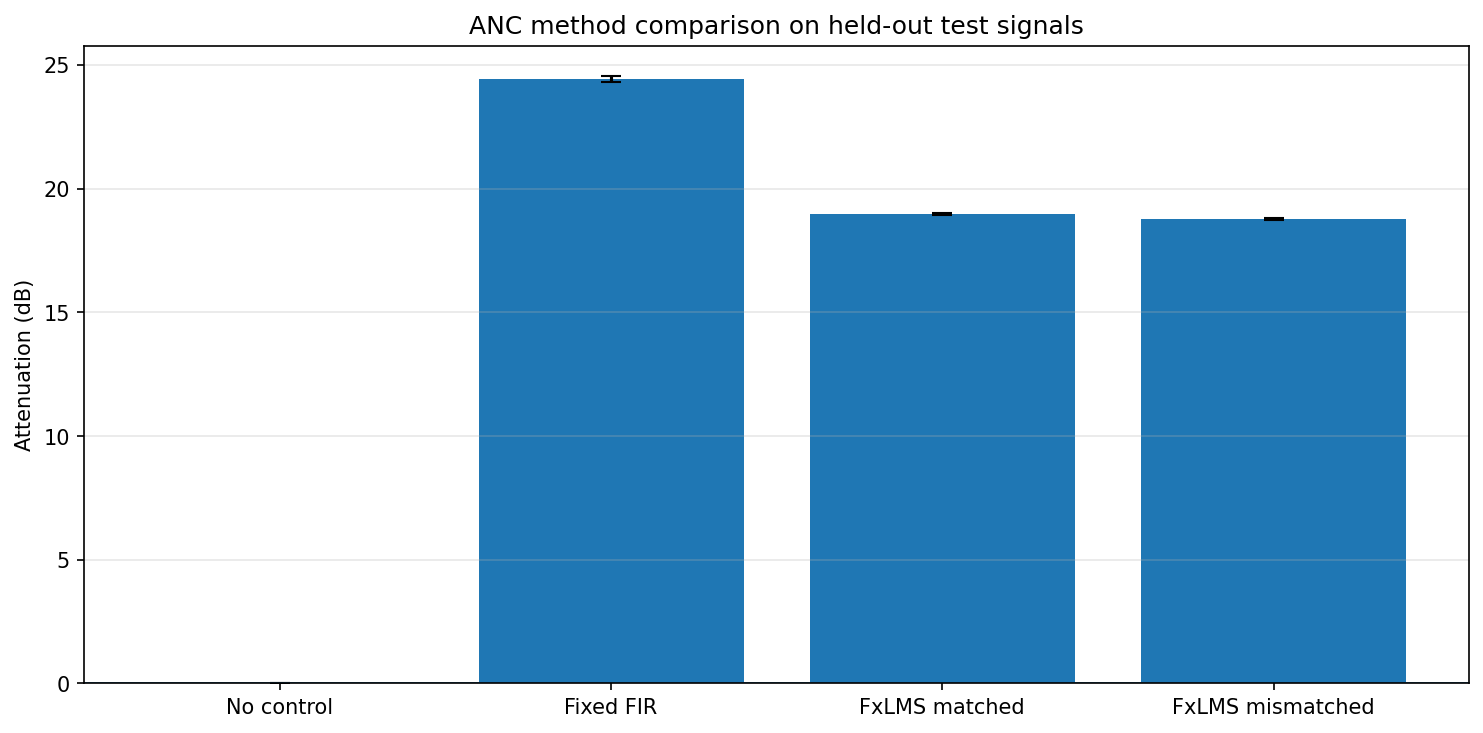
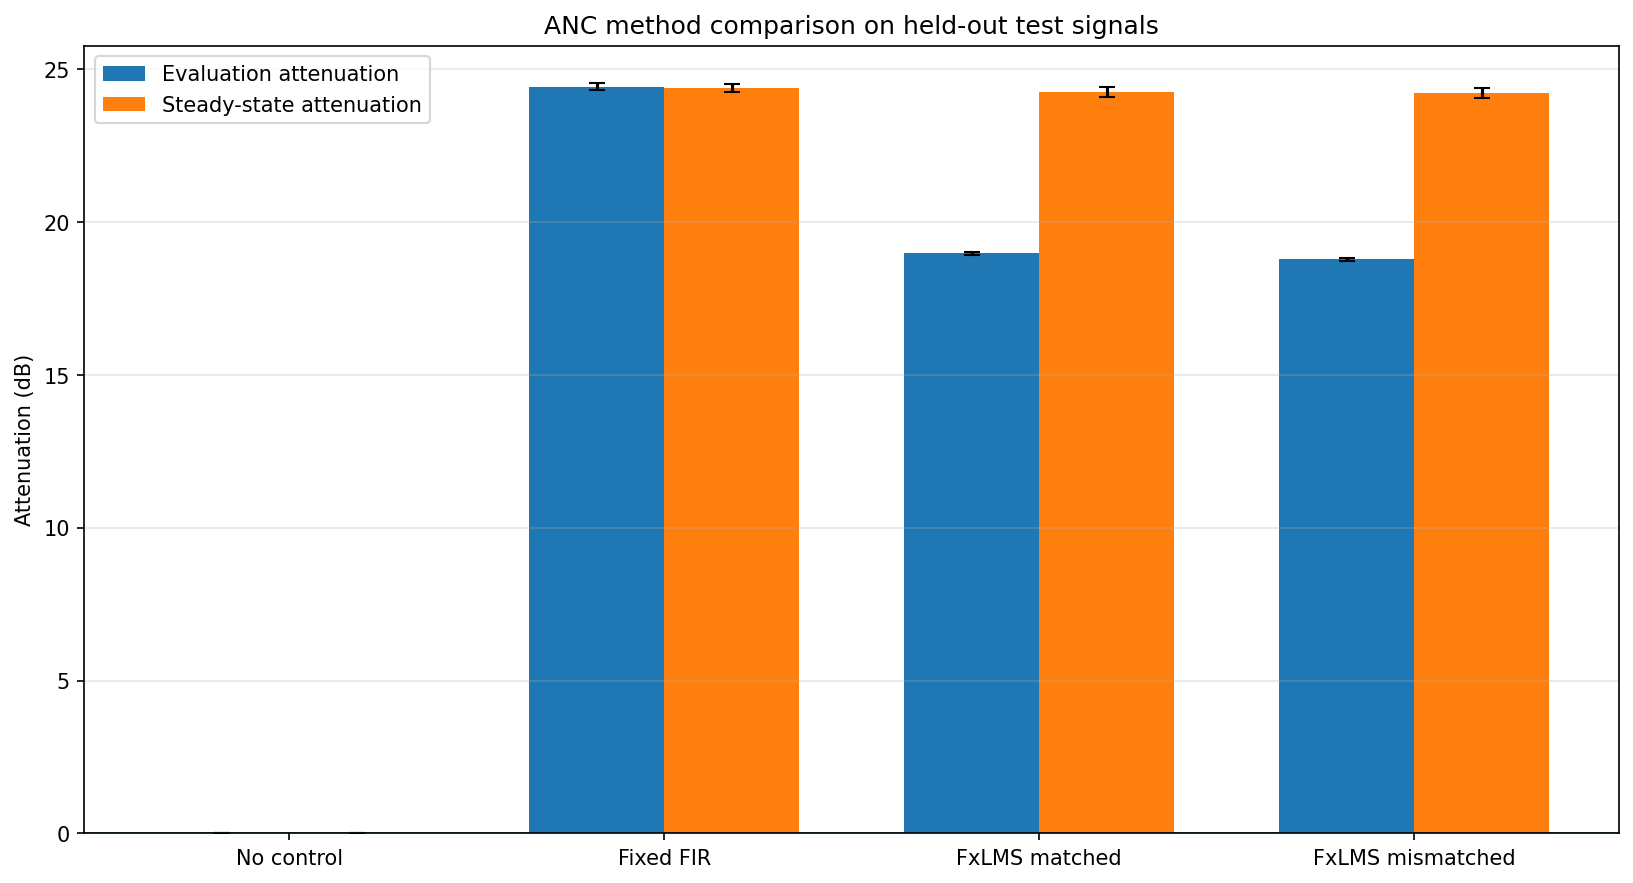
Update signal tone configuration format in step4_benchmark.py; add convergence time figure

Changed region(s): [[0.0, 0.06, 0.9926, 0.9905], [0.3102, 0.0, 0.7444, 0.06], [0.9616, 0.03, 0.9926, 0.09]]

diff --git a/experiments/step4_benchmark.py b/experiments/step4_benchmark.py
@@ -48,10 +48,10 @@ def generate_reference(
     signal_cfg = config["signal"]
 
     tones = [
-        (
-            float(item["frequency_hz"]),
-            float(item["amplitude"]),
-        )
+        {
+            "frequency_hz": float(item["frequency_hz"]),
+            "amplitude": float(item["amplitude"]),
+        }
         for item in signal_cfg["tones"]
     ]
 
